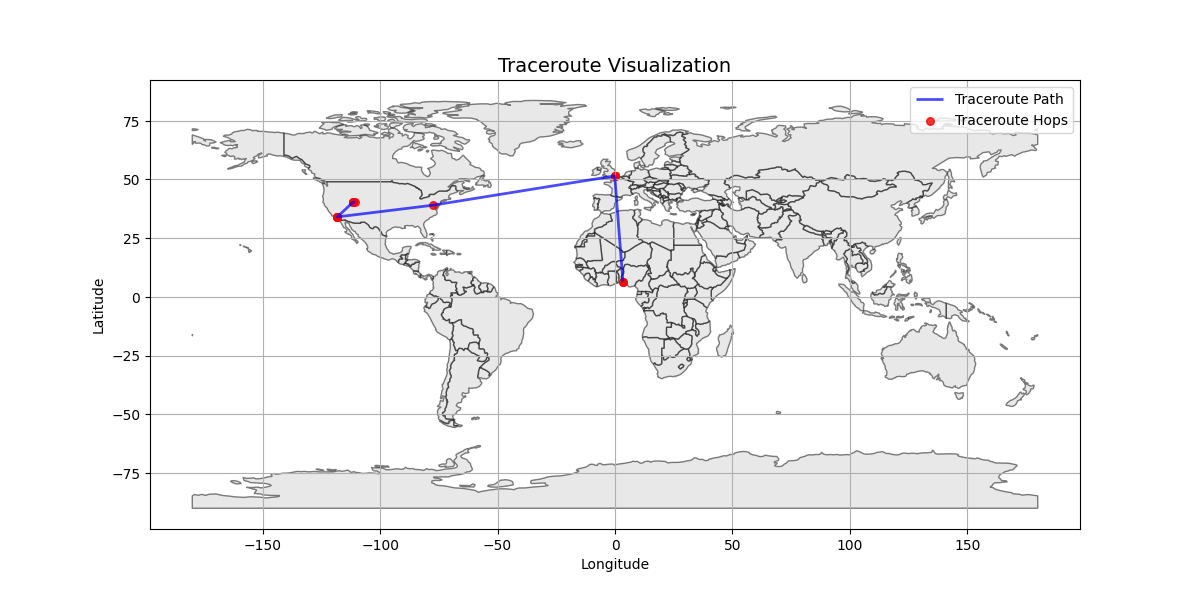
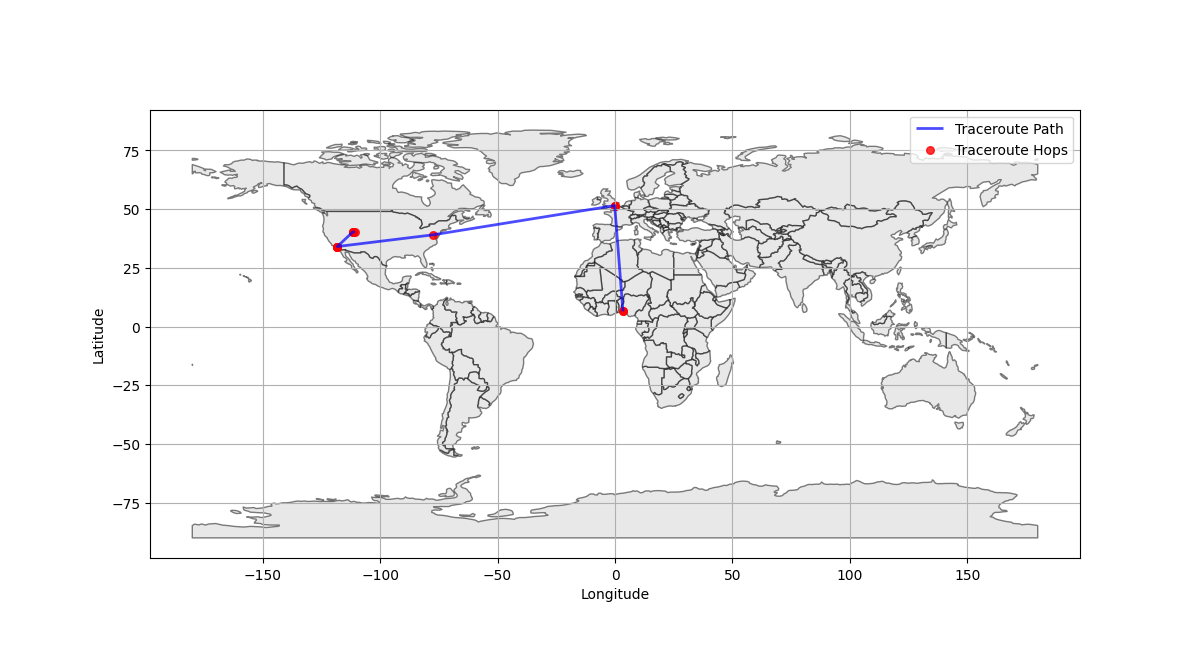
more plots

diff --git a/plot_traceroute.py b/plot_traceroute.py
@@ -6,31 +6,23 @@ import ipaddress
 
 # Hardcoded JSON data
 TRACEROUTE_DATA = [
-    {"hop": "154.113.73.198", "RTT": 0.0, "latitude": None, "longitude": None, "country": None},
-    {"hop": "10.0.0.1", "RTT": 1.211, "latitude": None, "longitude": None, "country": None},
-    {"hop": "154.113.73.197", "RTT": 1.403, "latitude": 6.4541, "longitude": 3.3947, "country": "NG"},
-    {"hop": "154.113.144.218", "RTT": 1.295, "latitude": 6.4541, "longitude": 3.3947, "country": "NG"},
-    {"hop": "154.113.144.218", "RTT": 1.295, "latitude": 6.4541, "longitude": 3.3947, "country": "NG"},
-    {"hop": "***", "RTT": float('-inf'), "latitude": None, "longitude": None, "country": None},
-    {"hop": "154.54.61.214", "RTT": 73.98, "latitude": 41.5503, "longitude": -8.42, "country": "PT"},
-    {"hop": "154.54.61.101", "RTT": 87.063, "latitude": 43.2627, "longitude": -2.9253, "country": "ES"},
-    {"hop": "154.54.85.241", "RTT": 157.459, "latitude": 39.0437, "longitude": -77.4875, "country": "US"},
-    {"hop": "154.54.7.158", "RTT": 173.841, "latitude": 33.749, "longitude": -84.388, "country": "US"},
-    {"hop": "154.54.28.70", "RTT": 187.343, "latitude": 29.9324, "longitude": -95.3802, "country": "US"},
-    {"hop": "154.54.0.54", "RTT": 203.352, "latitude": 31.7587, "longitude": -106.4869, "country": "US"},
-    {"hop": "154.54.166.58", "RTT": 211.721, "latitude": 33.4484, "longitude": -112.074, "country": "US"},
-    {"hop": "154.54.28.142", "RTT": 212.318, "latitude": 33.4484, "longitude": -112.074, "country": "US"},
-    {"hop": "38.88.238.226", "RTT": 229.43, "latitude": 33.4484, "longitude": -112.074, "country": "US"},
-    {"hop": "100.65.240.50", "RTT": 252.483, "latitude": None, "longitude": None, "country": None},
-    {"hop": "100.65.248.134", "RTT": 239.903, "latitude": None, "longitude": None, "country": None},
-    {"hop": "***", "RTT": float('-inf'), "latitude": None, "longitude": None, "country": None},
-    {"hop": "***", "RTT": float('-inf'), "latitude": None, "longitude": None, "country": None},
-    {"hop": "***", "RTT": float('-inf'), "latitude": None, "longitude": None, "country": None},
-    {"hop": "***", "RTT": float('-inf'), "latitude": None, "longitude": None, "country": None},
-    {"hop": "***", "RTT": float('-inf'), "latitude": None, "longitude": None, "country": None},
-    {"hop": "***", "RTT": float('-inf'), "latitude": None, "longitude": None, "country": None}
+    {"hop": "196.216.149.17", "RTT": 0.0, "latitude": None, "longitude": None, "country": None},
+    {"hop": "192.168.20.1", "RTT": 1.511, "latitude": None, "longitude": None, "country": None},
+    {"hop": "197.157.66.160", "RTT": 1.496, "latitude": 6.4541, "longitude": 3.3947, "country": "NG"},
+    {"hop": "41.78.188.5", "RTT": 3.51, "latitude": 6.4541, "longitude": 3.3947, "country": "NG"},
+    {"hop": "41.78.188.147", "RTT": 104.588, "latitude": 51.5085, "longitude": -0.1257, "country": "GB"},
+    {"hop": "212.119.4.176", "RTT": 107.33, "latitude": 51.5085, "longitude": -0.1257, "country": "GB"},
+    {"hop": "129.250.6.112", "RTT": 104.946, "latitude": 51.5085, "longitude": -0.1257, "country": "GB"},
+    {"hop": "129.250.2.111", "RTT": 181.54, "latitude": 39.0437, "longitude": -77.4875, "country": "US"},
+    {"hop": "129.250.3.189", "RTT": 243.438, "latitude": 34.0522, "longitude": -118.2437, "country": "US"},
+    {"hop": "129.250.3.245", "RTT": 238.899, "latitude": 34.0522, "longitude": -118.2437, "country": "US"},
+    {"hop": "168.143.228.173", "RTT": 240.172, "latitude": 34.0522, "longitude": -118.2437, "country": "US"},
+    {"hop": "162.215.195.128", "RTT": 244.291, "latitude": 34.0522, "longitude": -118.2437, "country": "US"},
+    {"hop": "162.215.195.141", "RTT": 242.689, "latitude": 40.2338, "longitude": -111.6585, "country": "US"},
+    {"hop": "69.195.64.103", "RTT": 242.316, "latitude": 40.2338, "longitude": -111.6585, "country": "US"},
+    {"hop": "162.144.240.43", "RTT": 242.331, "latitude": 40.2338, "longitude": -111.6585, "country": "US"},
+    {"hop": "142.4.18.72", "RTT": 242.21, "latitude": 40.3544, "longitude": -110.7101, "country": "US"}
 ]
-
 
 def is_valid_ip(ip):
     """Check if an IP address is public (ignore private/local IPs)."""
@@ -77,7 +69,7 @@ def plot_traceroute(gdf_points, gdf_lines, world_map):
         gdf_lines.plot(ax=ax, color="blue", linewidth=2, alpha=0.7, label="Traceroute Path")
     if not gdf_points.empty:
         gdf_points.plot(ax=ax, color="red", markersize=30, alpha=0.8, label="Traceroute Hops")
-    plt.title("Traceroute Visualization", fontsize=14)
+    # plt.title("Traceroute Visualization", fontsize=14)
     plt.xlabel("Longitude")
     plt.ylabel("Latitude")
     plt.legend()
